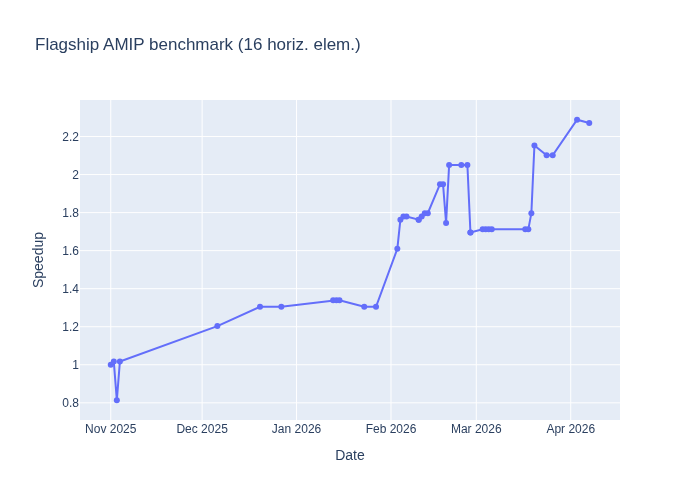
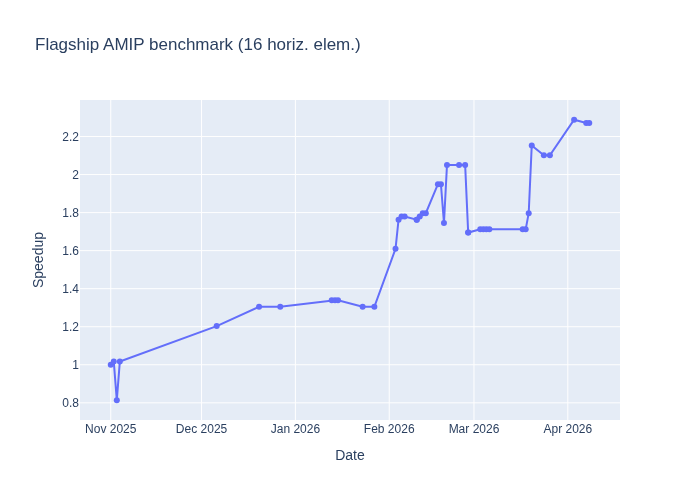
Run pipeline

diff --git a/.calkit/notebooks/html/notebooks/analyze.html b/.calkit/notebooks/html/notebooks/analyze.html
@@ -8180,7 +8180,7 @@ a.anchor-link {
 <div class="jp-OutputArea-child">
 <div class="jp-OutputPrompt jp-OutputArea-prompt"></div>
 <div class="jp-RenderedText jp-OutputArea-output" data-mime-type="text/plain" tabindex="0">
-<pre>shape: (69, 18)
+<pre>shape: (70, 18)
 ┌────────────┬───────────┬───────┬────────────┬───┬────────────┬───────────┬───────────┬───────────┐
 │ date       ┆ run_from  ┆ sypd  ┆ buildkite_ ┆ … ┆ ClimaTimes ┆ RRTMGP_di ┆ Thermodyn ┆ repos_cha │
 │ ---        ┆ ---       ┆ ---   ┆ commit     ┆   ┆ teppers_di ┆ ff_url    ┆ amics_dif ┆ nged      │
@@ -8204,10 +8204,6 @@ a.anchor-link {
 │ 00:00:00   ┆           ┆       ┆            ┆   ┆            ┆           ┆           ┆           │
 │ UTC        ┆           ┆       ┆            ┆   ┆            ┆           ┆           ┆           │
 │ …          ┆ …         ┆ …     ┆ …          ┆ … ┆ …          ┆ …         ┆ …         ┆ …         │
-│ 2026-03-27 ┆ buildkite ┆ null  ┆ 1ad3b593b4 ┆ … ┆ null       ┆ null      ┆ null      ┆ null      │
-│ 02:01:11.1 ┆           ┆       ┆ 0d6dbf9cb7 ┆   ┆            ┆           ┆           ┆           │
-│ 93 UTC     ┆           ┆       ┆ df24ff4880 ┆   ┆            ┆           ┆           ┆           │
-│            ┆           ┆       ┆ …          ┆   ┆            ┆           ┆           ┆           │
 │ 2026-03-31 ┆ buildkite ┆ null  ┆ 8dc5063942 ┆ … ┆ null       ┆ null      ┆ null      ┆ null      │
 │ 02:01:12.2 ┆           ┆       ┆ f58bc70b36 ┆   ┆            ┆           ┆           ┆           │
 │ 31 UTC     ┆           ┆       ┆ 79a1c3edb9 ┆   ┆            ┆           ┆           ┆           │
@@ -8224,6 +8220,10 @@ a.anchor-link {
 │ 02:01:09.3 ┆           ┆       ┆ 7ce632b289 ┆   ┆            ┆ ithub.com ┆ ithub.com ┆           │
 │ 32 UTC     ┆           ┆       ┆ 0cfbd3ecf1 ┆   ┆            ┆ /CliMA/RR ┆ /CliMA/Th ┆           │
 │            ┆           ┆       ┆ …          ┆   ┆            ┆ TMG…      ┆ erm…      ┆           │
+│ 2026-04-08 ┆ buildkite ┆ 0.134 ┆ dac5ca3dba ┆ … ┆ null       ┆ null      ┆ https://g ┆ 3.0       │
+│ 02:01:08.7 ┆           ┆       ┆ 7ce632b289 ┆   ┆            ┆           ┆ ithub.com ┆           │
+│ 67 UTC     ┆           ┆       ┆ 0cfbd3ecf1 ┆   ┆            ┆           ┆ /CliMA/Th ┆           │
+│            ┆           ┆       ┆ …          ┆   ┆            ┆           ┆ erm…      ┆           │
 └────────────┴───────────┴───────┴────────────┴───┴────────────┴───────────┴───────────┴───────────┘
 </pre>
 </div>

diff --git a/.calkit/notebooks/html/notebooks/buildkite.html b/.calkit/notebooks/html/notebooks/buildkite.html
@@ -8004,7 +8004,7 @@ version control.</p>
 <div class="jp-OutputArea-child">
 <div class="jp-OutputPrompt jp-OutputArea-prompt"></div>
 <div class="jp-RenderedText jp-OutputArea-output" data-mime-type="text/plain" tabindex="0">
-<pre>Fetching jobs from builds finished at 2026-04-03 12:40:32.222000
+<pre>Fetching jobs from builds finished at 2026-04-07 12:57:26.636000
 </pre>
 </div>
 </div>

diff --git a/results/amip-repo-diff-links.md b/results/amip-repo-diff-links.md
@@ -1,5 +1,6 @@
 | Date | Speedup | Change | Repo diffs |
 |---|---:|---:|---|
+| 2026-04-08 | 2.271186 |  | [ClimaAtmos](https://github.com/CliMA/ClimaAtmos.jl/compare/e2ae283428afce35ee7657e5d9091c85f6d8fa22...d5a0637165f6f8c24213eaa5a95f1103875fbda8), [ClimaCore](https://github.com/CliMA/ClimaCore.jl/compare/b849fea3dd13b831f3de6708cad0410d489fa6e2...27c98a15209a57d944a17622fd5ff81f95939b50), [Thermodynamics](https://github.com/CliMA/Thermodynamics.jl/compare/c9cc59892fcb3dc683f2a7db37a184814613bbb4...e19d95dcafd07f1995df586f76db4e6c11579392) |
 | 2026-04-07 | 2.271186 | -0.7% | [ClimaAtmos](https://github.com/CliMA/ClimaAtmos.jl/compare/f12169d868cad84cb65daf728cbc076908aebaf7...e2ae283428afce35ee7657e5d9091c85f6d8fa22), [ClimaCore](https://github.com/CliMA/ClimaCore.jl/compare/6df8debcb7c939f478c005bd2914b8ad82a62c21...b849fea3dd13b831f3de6708cad0410d489fa6e2), [ClimaCoupler](https://github.com/CliMA/ClimaCoupler.jl/compare/6726c93a29df9a760d15cb316be647a9d42468a5...dac5ca3dba7ce632b2890cfbd3ecf1133f43b0e3), [RRTMGP](https://github.com/CliMA/RRTMGP.jl/compare/91211d4d908708d8491a78dbf4720e9bf1f84f28...09df960f36a3bdd0e656f468ffd992bbf4e8ee69), [Thermodynamics](https://github.com/CliMA/Thermodynamics.jl/compare/7888742b76520cdecaffef4e04d53f581ea38571...c9cc59892fcb3dc683f2a7db37a184814613bbb4) |
 | 2026-04-03 | 2.288136 | +8.9% | [ClimaAtmos](https://github.com/CliMA/ClimaAtmos.jl/compare/e195459619e892c3df2a2bf6ce07f7a8335e959f...f12169d868cad84cb65daf728cbc076908aebaf7), [ClimaCore](https://github.com/CliMA/ClimaCore.jl/compare/32afc7fbed9dbc4e0245d70bdec1ce3b06e0def9...6df8debcb7c939f478c005bd2914b8ad82a62c21), [ClimaCoupler](https://github.com/CliMA/ClimaCoupler.jl/compare/e424dcd63af1bc641606812d652220e6b10c18a8...6726c93a29df9a760d15cb316be647a9d42468a5), [ClimaTimesteppers](https://github.com/CliMA/ClimaTimeSteppers.jl/compare/c2a3fb89795f297d27caeccc609d28276e256c57...be65ccb452a9cb40ffb03c89e4517e791b58c4aa), [RRTMGP](https://github.com/CliMA/RRTMGP.jl/compare/b9d52c2c846e2facb5ef4ec2970fb86ee36c1621...91211d4d908708d8491a78dbf4720e9bf1f84f28), [Thermodynamics](https://github.com/CliMA/Thermodynamics.jl/compare/ae1fbde0f67ba3c749233271e161da966f37b469...7888742b76520cdecaffef4e04d53f581ea38571) |
 | 2026-03-26 | 2.101695 |  | [ClimaAtmos](https://github.com/CliMA/ClimaAtmos.jl/compare/1334ee4cca32a105d1c2c4a501393ed61e6b5a15...e195459619e892c3df2a2bf6ce07f7a8335e959f), [ClimaCore](https://github.com/CliMA/ClimaCore.jl/compare/5cbc3bad94a227ba9cb96449a28b919741fada4d...32afc7fbed9dbc4e0245d70bdec1ce3b06e0def9), [ClimaCoupler](https://github.com/CliMA/ClimaCoupler.jl/compare/8614f1e40ff90cfcfea17ca51f054d6063161efe...e424dcd63af1bc641606812d652220e6b10c18a8), [ClimaTimesteppers](https://github.com/CliMA/ClimaTimeSteppers.jl/compare/516c5a96cf3b793889b7b8e94840df086be095ce...c2a3fb89795f297d27caeccc609d28276e256c57), [RRTMGP](https://github.com/CliMA/RRTMGP.jl/compare/d758183a93b9b7bb714629cd5c1c3f337bb7d513...b9d52c2c846e2facb5ef4ec2970fb86ee36c1621), [Thermodynamics](https://github.com/CliMA/Thermodynamics.jl/compare/bbd80f37ccd5409dd0472170d6175bb7747c79e8...ae1fbde0f67ba3c749233271e161da966f37b469) |
@@ -14,4 +15,3 @@
 | 2026-03-03 | 1.711864 | +1.0% | [ClimaAtmos](https://github.com/CliMA/ClimaAtmos.jl/compare/3fd3b51e1451173ac7bf4545252689ff770879d4...bfa8afd83cbd14ccd7b5d65fe34aa8a2f4e47ccf), [ClimaCoupler](https://github.com/CliMA/ClimaCoupler.jl/compare/c9e894bc793cac63c568e4709904873caba79862...64b196a543501ea0a7927ae619244e527ee392ea), [ClimaTimesteppers](https://github.com/CliMA/ClimaTimeSteppers.jl/compare/36909b88b7a635cbee4bae87e4539c8510776170...5d12ff067d106e395ad774e81e45da4a0389d444) |
 | 2026-02-27 | 1.694915 |  |  |
 | 2026-02-27 | 1.694915 | -17.4% | [ClimaAtmos](https://github.com/CliMA/ClimaAtmos.jl/compare/90ee1ed611f6e9907481308e0ffd38cf8ec3fb10...3fd3b51e1451173ac7bf4545252689ff770879d4), [ClimaCoupler](https://github.com/CliMA/ClimaCoupler.jl/compare/40c8215f819795f843ffac9a33f697f5d8a19335...c9e894bc793cac63c568e4709904873caba79862), [ClimaTimesteppers](https://github.com/CliMA/ClimaTimeSteppers.jl/compare/3c190d8c377c14f9d9cbcc24499df0d52c460637...36909b88b7a635cbee4bae87e4539c8510776170) |
-| 2026-02-26 | 2.050847 |  | [ClimaAtmos](https://github.com/CliMA/ClimaAtmos.jl/compare/e1d4e385bc140d63acd62ac511c7666dba37bfcc...90ee1ed611f6e9907481308e0ffd38cf8ec3fb10), [ClimaCoupler](https://github.com/CliMA/ClimaCoupler.jl/compare/ff10c2ef319506a3247e50d19318869cd1e9cb00...40c8215f819795f843ffac9a33f697f5d8a19335) |
